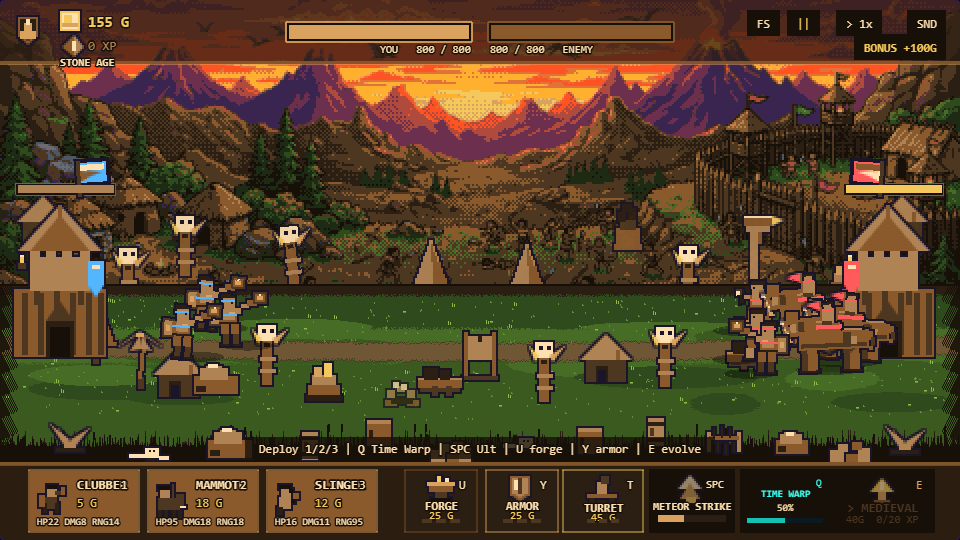
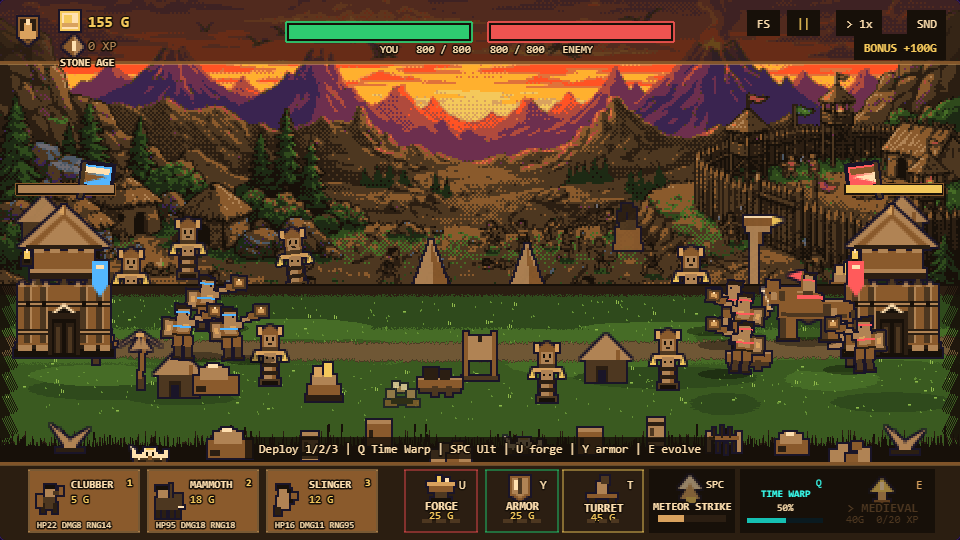
feat(render): upgrade base towers, props, and HUD visual clarity
- replace procedural totem and bones with authentic carved wood spirit effigy and mammoth tusk cairn
- upgrade palisade, keep, and bunker towers with stone plinth foundations, masonry/cross-timber details, and battlements
- fix spawn button typography to eliminate label clipping with hotkeys
- restyle top HUD health bars with vivid emerald and crimson meters

diff --git a/src/render/basearth.ts b/src/render/basearth.ts
@@ -17,78 +17,123 @@ export const BASE_CANVAS = { w: 54, h: 76 };
 export const BASE_FOOT_ROW = 75;
 
 const PALISADE: SpriteOp[] = [
-  // grounded log wall — the widest mass of the tower
-  r(4, 42, 46, 34, 'edge'),
-  r(8, 44, 3, 31, 'mid'), r(16, 44, 3, 31, 'mid'), r(24, 44, 3, 31, 'mid'),
-  r(32, 44, 3, 31, 'mid'), r(40, 44, 3, 31, 'mid'), r(46, 44, 3, 31, 'mid'),
-  // watch platform on posts
-  r(12, 34, 30, 9, 'body'),
-  r(14, 43, 3, 7, 'mid'), r(24, 43, 3, 7, 'mid'), r(36, 43, 3, 7, 'mid'),
-  // palisade crown above the platform
-  r(12, 26, 30, 9, 'body'),
-  r(12, 22, 5, 5, 'body'), r(20, 22, 5, 5, 'body'), r(28, 22, 5, 5, 'body'), r(37, 22, 5, 5, 'body'),
-  // signal brazier on the platform rail
-  r(6, 29, 4, 3, 'mid'), r(7, 26, 2, 3, 'highlight'), r(7, 25, 2, 1, 'light'),
-  // conical thatched roof over the crown
-  tri(27, 0, 6, 23, 48, 23, 'body'),
-  tri(27, 5, 12, 23, 42, 23, 'edge'),
-  r(26, 0, 2, 6, 'edge'),
-  // gate with a hide awning
-  r(20, 58, 14, 18, 'panel'),
-  tri(20, 58, 34, 58, 27, 48, 'mid'),
-  r(22, 61, 10, 15, 'dark'),
+  // boulder/stone plinth foundation anchoring the base
+  r(3, 69, 48, 6, 'panel'),
+  r(2, 72, 50, 4, 'dark'),
+  r(4, 70, 7, 3, 'body'), r(13, 70, 6, 3, 'body'), r(21, 70, 6, 3, 'body'),
+  r(29, 70, 6, 3, 'body'), r(37, 70, 6, 3, 'body'), r(45, 70, 5, 3, 'body'),
+  // grounded defensive log wall
+  r(4, 40, 46, 30, 'edge'),
+  // sharpened palisade stake tops along the wall crest
+  tri(6, 38, 4, 41, 8, 41, 'body'), tri(12, 37, 10, 41, 14, 41, 'body'),
+  tri(18, 38, 16, 41, 20, 41, 'body'), tri(34, 38, 32, 41, 36, 41, 'body'),
+  tri(40, 37, 38, 41, 42, 41, 'body'), tri(46, 38, 44, 41, 48, 41, 'body'),
+  // vertical log planking with shadow and sunlit grain
+  r(7, 41, 3, 28, 'mid'), r(10, 41, 1, 28, 'body'),
+  r(15, 41, 3, 28, 'mid'), r(18, 41, 1, 28, 'body'),
+  r(35, 41, 3, 28, 'mid'), r(38, 41, 1, 28, 'body'),
+  r(43, 41, 3, 28, 'mid'), r(46, 41, 1, 28, 'body'),
+  // heavy cross-timber bracing beams with forged iron/leather pins
+  r(4, 48, 46, 3, 'panel'), r(4, 49, 46, 1, 'body'),
+  r(4, 62, 46, 3, 'panel'), r(4, 63, 46, 1, 'body'),
+  r(8, 48, 2, 3, 'dark'), r(16, 48, 2, 3, 'dark'), r(36, 48, 2, 3, 'dark'), r(44, 48, 2, 3, 'dark'),
+  // reinforced gate with heavy timber lintel & skull trophy
+  r(19, 53, 16, 22, 'panel'),
+  tri(27, 49, 21, 54, 33, 54, 'light'), tri(27, 51, 23, 54, 31, 54, 'dark'),
+  r(21, 57, 12, 18, 'dark'),
+  r(22, 59, 4, 15, 'panel'), r(28, 59, 4, 15, 'panel'),
+  r(23, 61, 2, 13, 'mid'), r(29, 61, 2, 13, 'mid'),
+  // watch platform on corbel posts
+  tri(14, 35, 12, 40, 16, 40, 'mid'), tri(27, 35, 25, 40, 29, 40, 'mid'), tri(40, 35, 38, 40, 42, 40, 'mid'),
+  r(10, 32, 34, 5, 'panel'), r(10, 32, 34, 2, 'body'),
+  // upper palisade parapet with notched battlements
+  r(12, 23, 30, 9, 'edge'),
+  r(12, 20, 5, 4, 'body'), r(20, 20, 5, 4, 'body'), r(29, 20, 5, 4, 'body'), r(37, 20, 5, 4, 'body'),
+  tri(14, 18, 12, 21, 16, 21, 'body'), tri(22, 18, 20, 21, 24, 21, 'body'),
+  tri(31, 18, 29, 21, 33, 21, 'body'), tri(39, 18, 37, 21, 41, 21, 'body'),
+  // war brazier on platform rail with active flame
+  r(6, 26, 5, 4, 'panel'), r(7, 27, 3, 2, 'dark'),
+  r(7, 23, 3, 4, 'highlight'), r(8, 22, 1, 2, 'light'),
+  // conical thatched straw roof with layered eaves
+  tri(27, 0, 4, 21, 50, 21, 'body'),
+  tri(27, 4, 8, 21, 46, 21, 'edge'),
+  tri(27, 7, 13, 21, 41, 21, 'body'),
+  r(26, 0, 2, 7, 'edge'),
+  tri(27, 0, 24, 4, 27, 5, 'accent'),
+  r(8, 20, 38, 2, 'panel'),
 ];
 
 const KEEP: SpriteOp[] = [
-  // curtain wall with dressing
-  r(6, 44, 42, 32, 'edge'),
-  r(10, 46, 3, 29, 'mid'), r(20, 46, 3, 29, 'mid'), r(30, 46, 3, 29, 'mid'), r(40, 46, 3, 29, 'mid'),
-  // wall-walk and crenellations
-  r(6, 40, 42, 5, 'body'),
-  r(6, 36, 5, 5, 'body'), r(14, 36, 5, 5, 'body'), r(22, 36, 5, 5, 'body'),
-  r(30, 36, 5, 5, 'body'), r(39, 36, 5, 5, 'body'), r(46, 36, 5, 5, 'body'),
-  // flanking towers with crowned parapets
-  r(6, 18, 10, 22, 'body'),
-  r(38, 18, 10, 22, 'body'),
-  r(5, 14, 12, 5, 'edge'), r(37, 14, 12, 5, 'edge'),
-  r(6, 10, 3, 5, 'body'), r(11, 10, 3, 5, 'body'),
-  r(38, 10, 3, 5, 'body'), r(43, 10, 3, 5, 'body'),
-  r(9, 22, 3, 6, 'panel'), r(41, 22, 3, 6, 'panel'),
-  // great donjon rising through the middle of the composition
-  r(19, 8, 16, 32, 'edge'),
-  r(21, 10, 3, 29, 'mid'), r(30, 10, 3, 29, 'mid'),
-  r(17, 4, 20, 5, 'body'),
-  r(17, 0, 4, 5, 'body'), r(23, 0, 4, 5, 'body'), r(29, 0, 4, 5, 'body'), r(35, 0, 4, 5, 'body'),
-  r(24, 14, 5, 6, 'light'), r(24, 26, 5, 6, 'panel'),
-  // gatehouse arch and steps
-  r(20, 58, 14, 18, 'panel'),
-  tri(20, 58, 34, 58, 27, 46, 'edge'),
-  r(22, 61, 10, 15, 'dark'),
-  r(14, 73, 26, 3, 'mid'),
+  // stone plinth foundation
+  r(3, 72, 48, 4, 'dark'),
+  r(5, 69, 44, 4, 'panel'),
+  tri(5, 68, 2, 72, 5, 72, 'mid'), tri(49, 68, 49, 72, 52, 72, 'mid'),
+  // curtain wall with ashlar masonry courses
+  r(6, 42, 42, 28, 'edge'),
+  r(6, 49, 42, 1, 'dark'), r(6, 56, 42, 1, 'dark'), r(6, 63, 42, 1, 'dark'),
+  r(14, 43, 1, 6, 'dark'), r(26, 43, 1, 6, 'dark'), r(38, 43, 1, 6, 'dark'),
+  r(10, 50, 1, 6, 'dark'), r(22, 50, 1, 6, 'dark'), r(34, 50, 1, 6, 'dark'), r(44, 50, 1, 6, 'dark'),
+  r(16, 57, 1, 6, 'dark'), r(30, 57, 1, 6, 'dark'), r(40, 57, 1, 6, 'dark'),
+  r(7, 43, 6, 1, 'body'), r(19, 43, 6, 1, 'body'), r(31, 43, 6, 1, 'body'),
+  r(11, 50, 6, 1, 'body'), r(23, 50, 6, 1, 'body'), r(35, 50, 6, 1, 'body'),
+  // wall-walk machicolation and crenellations
+  r(5, 38, 44, 4, 'panel'), r(5, 38, 44, 1, 'body'),
+  r(7, 40, 3, 3, 'mid'), r(15, 40, 3, 3, 'mid'), r(23, 40, 3, 3, 'mid'),
+  r(31, 40, 3, 3, 'mid'), r(39, 40, 3, 3, 'mid'), r(45, 40, 3, 3, 'mid'),
+  r(5, 33, 5, 5, 'body'), r(13, 33, 5, 5, 'body'), r(21, 33, 5, 5, 'body'),
+  r(29, 33, 5, 5, 'body'), r(37, 33, 5, 5, 'body'), r(45, 33, 5, 5, 'body'),
+  // flanking towers with arrow slits
+  r(5, 15, 11, 20, 'body'), r(13, 15, 3, 20, 'edge'), r(9, 21, 2, 6, 'dark'),
+  r(38, 15, 11, 20, 'body'), r(46, 15, 3, 20, 'edge'), r(42, 21, 2, 6, 'dark'),
+  r(4, 12, 13, 3, 'edge'), r(37, 12, 13, 3, 'edge'),
+  r(4, 8, 3, 4, 'body'), r(9, 8, 3, 4, 'body'), r(14, 8, 3, 4, 'body'),
+  r(37, 8, 3, 4, 'body'), r(42, 8, 3, 4, 'body'), r(47, 8, 3, 4, 'body'),
+  // great central donjon keep
+  r(18, 5, 18, 34, 'edge'), r(19, 6, 16, 32, 'body'),
+  r(16, 3, 22, 3, 'panel'), r(16, 3, 22, 1, 'highlight'),
+  r(16, 0, 4, 3, 'body'), r(22, 0, 4, 3, 'body'), r(28, 0, 4, 3, 'body'), r(34, 0, 4, 3, 'body'),
+  // donjon arched window
+  r(23, 11, 8, 10, 'dark'), tri(27, 8, 23, 11, 30, 11, 'dark'),
+  r(24, 12, 6, 8, 'light'), r(26, 12, 2, 8, 'edge'), r(24, 15, 6, 1, 'edge'),
+  // portcullis gatehouse & steps
+  r(19, 56, 16, 17, 'panel'),
+  tri(27, 50, 19, 56, 34, 56, 'mid'),
+  r(22, 59, 10, 14, 'dark'),
+  r(24, 60, 1, 13, 'edge'), r(27, 60, 1, 13, 'edge'), r(30, 60, 1, 13, 'edge'),
+  r(16, 73, 22, 3, 'mid'),
 ];
 
 const BUNKER: SpriteOp[] = [
-  // radar mast with a rotating dish and a warning beacon
-  r(25, 4, 3, 9, 'edge'),
-  r(17, 2, 8, 6, 'body'), r(16, 3, 2, 4, 'light'), r(23, 4, 3, 2, 'light'),
-  r(26, 1, 2, 2, 'highlight'),
-  // control cab with lit windows
-  r(16, 13, 22, 15, 'edge'),
-  r(18, 16, 6, 4, 'light'), r(26, 16, 6, 4, 'light'),
-  r(16, 26, 22, 2, 'body'),
-  // support column
-  r(22, 28, 10, 8, 'mid'),
-  // reinforced blockhouse
-  r(4, 35, 46, 41, 'mid'),
-  r(4, 35, 46, 3, 'edge'),
-  r(8, 40, 3, 31, 'panel'), r(16, 40, 3, 31, 'panel'), r(28, 40, 3, 31, 'panel'),
-  r(38, 40, 3, 31, 'panel'), r(44, 40, 3, 31, 'panel'),
-  r(6, 52, 42, 3, 'light'),
-  r(10, 58, 8, 4, 'edge'), r(34, 58, 8, 4, 'edge'),
-  // blast door
-  r(21, 60, 12, 16, 'edge'),
-  r(23, 62, 8, 13, 'panel'),
-  r(26, 68, 2, 2, 'body'),
+  // heavy blast foundation
+  r(2, 71, 50, 5, 'dark'),
+  r(3, 72, 48, 3, 'mid'),
+  // reinforced composite blockhouse
+  r(4, 34, 46, 38, 'mid'),
+  r(4, 34, 46, 3, 'edge'), r(4, 34, 46, 1, 'light'),
+  // armored vertical seams & recessed expansion joints
+  r(14, 37, 2, 34, 'dark'), r(27, 37, 2, 22, 'dark'), r(40, 37, 2, 34, 'dark'),
+  // industrial hazard warning band
+  r(6, 49, 42, 3, 'light'),
+  r(10, 49, 3, 3, 'dark'), r(20, 49, 3, 3, 'dark'), r(30, 49, 3, 3, 'dark'), r(40, 49, 3, 3, 'dark'),
+  // fortified embrasures & corner rivets
+  r(8, 42, 5, 2, 'dark'), r(41, 42, 5, 2, 'dark'),
+  r(6, 37, 2, 2, 'light'), r(6, 65, 2, 2, 'light'),
+  r(46, 37, 2, 2, 'light'), r(46, 65, 2, 2, 'light'),
+  // heavy pneumatic blast door
+  r(20, 58, 14, 15, 'edge'), r(21, 59, 12, 13, 'dark'),
+  r(22, 60, 10, 11, 'panel'),
+  r(26, 64, 2, 2, 'highlight'),
+  // command observation deck on pylons
+  r(18, 26, 4, 8, 'dark'), r(32, 26, 4, 8, 'dark'),
+  r(12, 12, 30, 15, 'edge'), r(13, 13, 28, 13, 'mid'),
+  // narrow panoramic ballistic visor
+  r(16, 16, 22, 5, 'dark'),
+  r(17, 17, 9, 3, 'body'), r(28, 17, 9, 3, 'body'),
+  r(18, 17, 3, 1, 'light'), r(29, 17, 3, 1, 'light'),
+  // radar array & communications mast
+  r(26, 3, 2, 9, 'edge'),
+  r(18, 2, 7, 5, 'body'), r(17, 3, 2, 3, 'light'), tri(22, 1, 18, 4, 24, 4, 'edge'),
+  r(26, 0, 2, 3, 'highlight'), r(26, 1, 2, 1, 'light'),
 ];
 
 function withHeraldry(ops: SpriteOp[], side: Side): SpriteOp[] {

diff --git a/src/render/Hud.ts b/src/render/Hud.ts
@@ -44,7 +44,7 @@ const THEMES: Record<'stone' | 'medieval' | 'modern', Theme> = {
     border: 0x8a5a2c, borderGlow: 0xd9a25e,
     accent: 0xd9a25e, accentText: '#ffe0b0',
     gold: 0xf4c85b, xp: 0xb08354,
-    hpPlayer: 0xd9a25e, hpEnemy: 0x8a5a2c,
+    hpPlayer: 0x2ecc71, hpEnemy: 0xef5350,
     btnReady: 0x8a5a2c, btnLocked: 0x2b1e12,
     evolveBg: 0x4d3720, evolveBorder: 0xd9a25e, evolveGlow: '#ffe0b0',
     banner: 0x2b1e12, outline: '#171009',
@@ -55,7 +55,7 @@ const THEMES: Record<'stone' | 'medieval' | 'modern', Theme> = {
     border: 0x425aa8, borderGlow: 0xffd166,
     accent: 0xffd166, accentText: '#ffe9b0',
     gold: 0xffd166, xp: 0x7a8fcf,
-    hpPlayer: 0x7a8fcf, hpEnemy: 0xd64a4a,
+    hpPlayer: 0x2ecc71, hpEnemy: 0xef5350,
     btnReady: 0x425aa8, btnLocked: 0x161d33,
     evolveBg: 0x2a3660, evolveBorder: 0xffd166, evolveGlow: '#ffe9b0',
     banner: 0x161d33, outline: '#0a0f1f',
@@ -232,16 +232,16 @@ export class Hud {
     // Base health bars (top centre)
     const barW = Hud.BAR_W, barH = Hud.BAR_H;
     this.playerHpFrame = s.add.rectangle(w / 2 - 8, 32, barW + 6, barH + 6, 0x171009, 1)
-      .setOrigin(1, 0.5).setDepth(10).setStrokeStyle(2, 0x8a5a2c);
-    this.playerHpBar = s.add.rectangle(w / 2 - 11, 32, barW, barH, 0xd9a25e).setOrigin(1, 0.5).setDepth(11);
+      .setOrigin(1, 0.5).setDepth(10).setStrokeStyle(2, 0x2ecc71);
+    this.playerHpBar = s.add.rectangle(w / 2 - 11, 32, barW, barH, 0x2ecc71).setOrigin(1, 0.5).setDepth(11);
     this.playerHpText = s.add.text(w / 2 - 8, 48, '', {
       fontFamily: 'monospace', fontSize: '11px', color: '#ffe0b0',
       stroke: '#171009', strokeThickness: 3,
     }).setOrigin(1, 0.5).setDepth(10);
 
     this.aiHpFrame = s.add.rectangle(w / 2 + 8, 32, barW + 6, barH + 6, 0x171009, 1)
-      .setOrigin(0, 0.5).setDepth(10).setStrokeStyle(2, 0x8a5a2c);
-    this.aiHpBar = s.add.rectangle(w / 2 + 11, 32, barW, barH, 0x8a5a2c).setOrigin(0, 0.5).setDepth(11);
+      .setOrigin(0, 0.5).setDepth(10).setStrokeStyle(2, 0xef5350);
+    this.aiHpBar = s.add.rectangle(w / 2 + 11, 32, barW, barH, 0xef5350).setOrigin(0, 0.5).setDepth(11);
     this.aiHpText = s.add.text(w / 2 + 8, 48, '', {
       fontFamily: 'monospace', fontSize: '11px', color: '#ffe0b0',
       stroke: '#171009', strokeThickness: 3,
@@ -413,22 +413,22 @@ export class Hud {
     const accent = s.add.rectangle(x - w / 2 + 3, y - h / 2 + 3, 5, h - 6, 0xffe0b0).setOrigin(0, 0).setDepth(11);
     const bg = s.add.rectangle(x, y, w - 6, h - 6, 0x171009).setOrigin(0.5).setDepth(11).setInteractive({ useHandCursor: true });
 
-    const icon = s.add.image(x - w / 2 + 26, y, `portrait_stone_${role}`)
+    const icon = s.add.image(x - w / 2 + 24, y, `portrait_stone_${role}`)
       .setOrigin(0.5).setScale(PIXEL_SCALE).setDepth(12);
-    const label = s.add.text(x - w / 2 + 48, y - h / 2 + 8, '', {
-      fontFamily: 'monospace', fontSize: '13px', color: '#ffe0b0', fontStyle: 'bold',
+    const label = s.add.text(x - w / 2 + 42, y - h / 2 + 8, '', {
+      fontFamily: 'monospace', fontSize: '11px', color: '#ffe0b0', fontStyle: 'bold',
       stroke: '#171009', strokeThickness: 3,
     }).setOrigin(0, 0).setDepth(12);
-    const cost = s.add.text(x - w / 2 + 48, y - h / 2 + 26, '', {
-      fontFamily: 'monospace', fontSize: '12px', color: '#f4c85b',
+    const cost = s.add.text(x - w / 2 + 42, y - h / 2 + 23, '', {
+      fontFamily: 'monospace', fontSize: '11px', color: '#f4c85b',
       stroke: '#171009', strokeThickness: 3,
     }).setOrigin(0, 0).setDepth(12);
-    const stats = s.add.text(x - w / 2 + 8, y + h / 2 - 20, '', {
-      fontFamily: 'monospace', fontSize: '10px', color: '#b08354',
+    const stats = s.add.text(x - w / 2 + 8, y + h / 2 - 16, '', {
+      fontFamily: 'monospace', fontSize: '9px', color: '#b08354',
       stroke: '#171009', strokeThickness: 2,
     }).setOrigin(0, 0).setDepth(12);
-    const hotkey = s.add.text(x + w / 2 - 12, y - h / 2 + 8, ROLE_HOTKEY[role], {
-      fontFamily: 'monospace', fontSize: '12px', color: '#ffe0b0',
+    const hotkey = s.add.text(x + w / 2 - 7, y - h / 2 + 7, ROLE_HOTKEY[role], {
+      fontFamily: 'monospace', fontSize: '10px', color: '#ffd166', fontStyle: 'bold',
       stroke: '#171009', strokeThickness: 3,
     }).setOrigin(1, 0).setDepth(12);
     const cd = s.add.rectangle(x - w / 2 + 3, y - h / 2 + 3, 0, h - 6, 0x171009, 0.62).setOrigin(0, 0).setDepth(13).setVisible(false);

diff --git a/src/render/propart.ts b/src/render/propart.ts
@@ -101,14 +101,30 @@ const HUT: SpriteOp[] = [
 ];
 
 const TOTEM: SpriteOp[] = [
-  r(5, 6, 5, 24, 'edge'),
-  r(3, 0, 9, 8, 'light'),
-  r(5, 2, 2, 2, 'ink'), r(9, 2, 2, 2, 'ink'),
-  r(6, 9, 3, 2, 'panel'),
-  tri(5, 7, 0, 2, 3, 10, 'highlight'),
-  tri(10, 7, 18, 2, 12, 10, 'accent'),
-  r(4, 16, 8, 2, 'body'),
-  r(4, 22, 8, 2, 'body'),
+  // central carved timber post
+  r(6, 2, 6, 26, 'body'),
+  r(10, 2, 2, 26, 'edge'),
+  // horn crest / antler crown
+  tri(9, 0, 3, 4, 15, 4, 'edge'),
+  r(3, 1, 2, 4, 'accent'), r(13, 1, 2, 4, 'accent'),
+  // carved spirit mask (upper effigy)
+  r(5, 4, 8, 8, 'edge'),
+  r(6, 5, 6, 6, 'body'),
+  r(7, 6, 1, 2, 'dark'), r(10, 6, 1, 2, 'dark'),
+  r(8, 9, 2, 1, 'panel'),
+  r(5, 11, 8, 2, 'mid'),
+  // crossbar with hung feathers / pelts
+  r(2, 13, 14, 2, 'accent'),
+  tri(2, 13, 0, 18, 3, 18, 'highlight'),
+  tri(16, 13, 18, 18, 15, 18, 'highlight'),
+  // lower carved mask & cord wrap
+  r(6, 14, 6, 5, 'body'),
+  r(7, 16, 1, 1, 'dark'), r(10, 16, 1, 1, 'dark'),
+  r(5, 19, 8, 2, 'panel'),
+  r(5, 23, 8, 2, 'panel'),
+  // stone cairn footing
+  r(4, 27, 10, 3, 'mid'),
+  r(5, 28, 8, 2, 'dark'),
 ];
 
 const CAMPFIRE: SpriteOp[] = [
@@ -136,11 +152,21 @@ const FERN: SpriteOp[] = [
 ];
 
 const BONES: SpriteOp[] = [
-  r(0, 7, 8, 2, 'light'),
-  r(8, 4, 7, 5, 'light'),
-  r(10, 5, 1, 1, 'ink'), r(12, 5, 1, 1, 'ink'),
-  r(15, 8, 5, 2, 'light'),
-  r(9, 9, 4, 1, 'panel'),
+  // half-buried mammoth skull & curved tusks cairn
+  r(2, 7, 16, 3, 'mid'),
+  r(4, 8, 12, 2, 'panel'),
+  // curved tusks
+  r(1, 3, 2, 4, 'light'), tri(1, 3, 0, 1, 3, 3, 'light'), r(3, 5, 3, 2, 'light'),
+  r(17, 3, 2, 4, 'light'), tri(17, 3, 20, 1, 17, 3, 'light'), r(14, 5, 3, 2, 'light'),
+  // weathered skull dome & eye sockets
+  r(7, 2, 6, 5, 'light'),
+  r(8, 2, 4, 1, 'highlight'),
+  r(6, 4, 8, 3, 'light'),
+  r(8, 4, 1, 2, 'dark'), r(11, 4, 1, 2, 'dark'),
+  r(9, 6, 2, 2, 'edge'),
+  r(8, 8, 4, 2, 'mid'),
+  // rib bones
+  r(4, 5, 1, 3, 'light'), r(15, 5, 1, 3, 'light'),
 ];
 
 const WATCH_POST: SpriteOp[] = [
